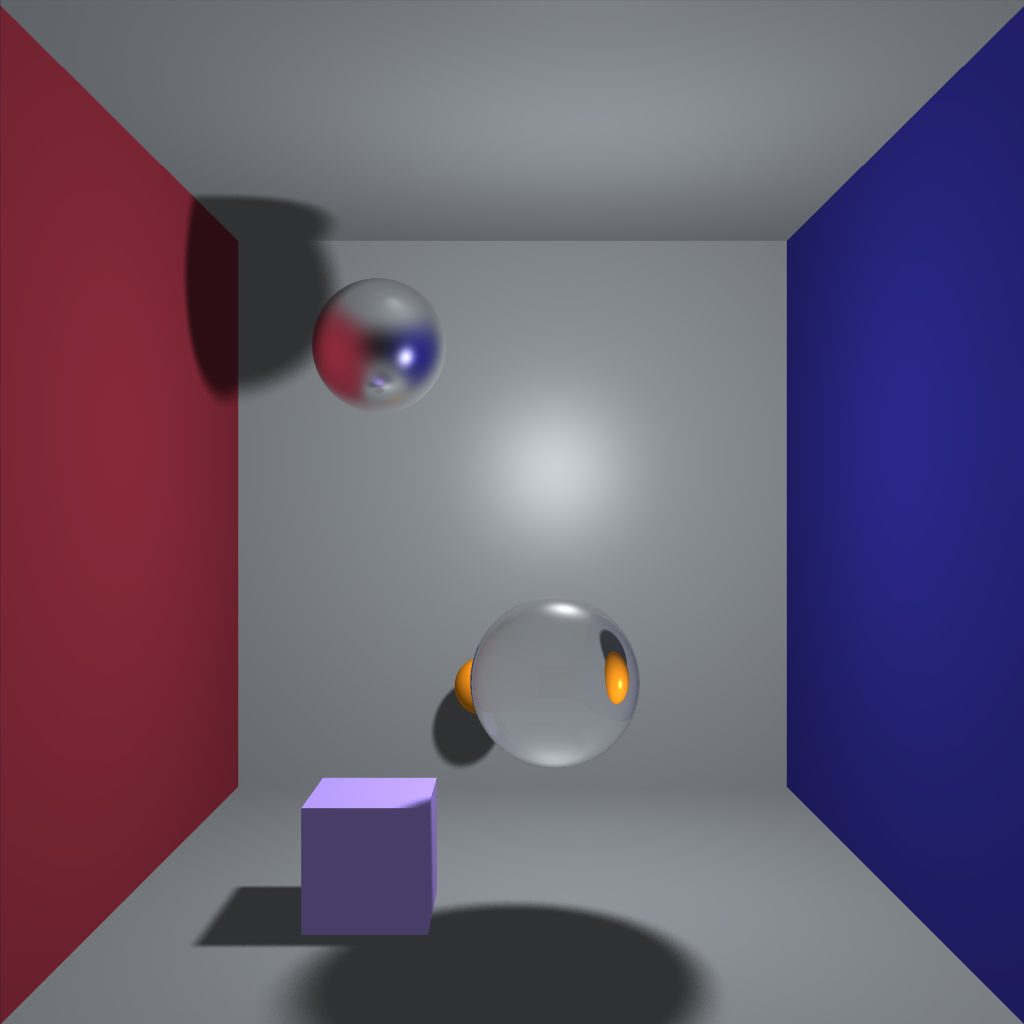
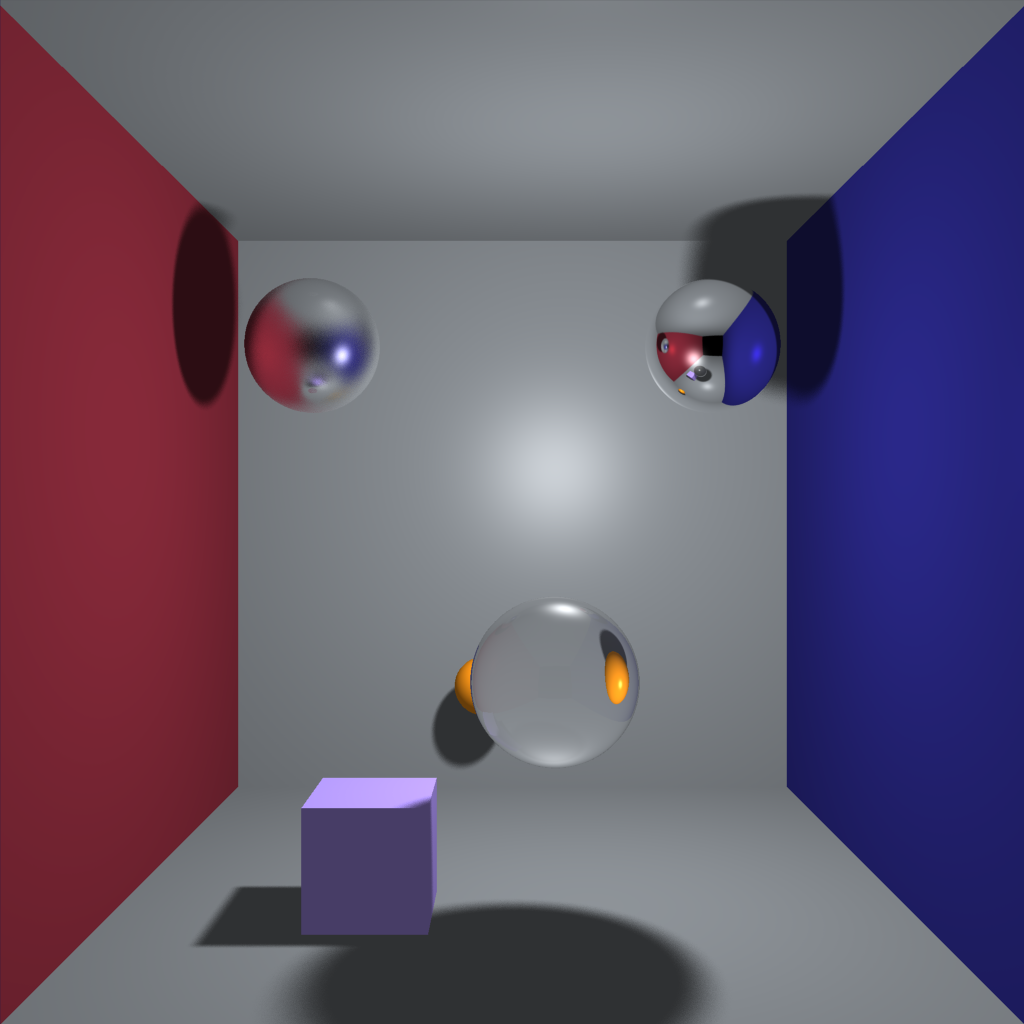
Glossy Refraction.

Changed region(s): [[0.1562, 0.1875, 0.4375, 0.4062], [0.625, 0.1875, 0.8438, 0.4062]]

diff --git a/A4/A4.cpp b/A4/A4.cpp
@@ -19,7 +19,7 @@ static double IMAGEHEIGHT;
 #define REFLECTIONDEBUG 0
 #define ABSORBANCE 0.1
 #define SOFTSHADOW 100					// How many shadow rays.
-#define GLOSSYREFLECTION 20				// How many reflection rays
+#define GLOSSYREFLECTION 50				// How many reflection rays
 #define GLOSSYREFRACTION 50				// How many refraction rays.
 
 #define REFLECTION_REFRACTION_ONLY 0
@@ -116,11 +116,11 @@ void A4_Render(
 	std::chrono::system_clock::time_point start = std::chrono::system_clock::now();
 	
 	for (uint y = 0; y < ny; ++y) {
+		std::cout << "Working on Y: " << y << std::endl;
 		for (uint x = 0; x < nx; ++x) {
 			
 			if (x % MULTIPROCESSINGNUMBER == 0) {
 				dispatch_barrier_sync(concurrent_queue, ^{
-					std::cout << "Working on Y: " << y << std::endl;
 				});
 			}
 			
@@ -349,12 +349,43 @@ glm::dvec3 directLight(const std::list<Light*> & lights, const Intersection & pr
 #endif
         
 		if (reflectance != 1.0) {
-            // refraction
-            Ray t = refractedRay(primary_intersect.incoming_ray, primary_intersect);
-            HitColor refractedColor = rayColor(t, lights, counter+1);	// get refracted ray color.
-            if (refractedColor.hit) {
-                color += (1 - reflectance) * refractedColor.color;
-            }
+
+			if (primary_intersect.material->m_glossy_coefficients.z > 0) {
+				// Glossy refraction
+				glm::dvec3 refracted_color;
+				
+				// Add glossy refraction
+				if (GLOSSYREFRACTION > 0) {
+					Ray t = refractedRay(primary_intersect.incoming_ray, primary_intersect);
+					std::vector<glm::dvec3> purtubed_rays
+						= purturbedRays(
+									glm::dvec3(t.direction),
+									glm::dvec3(-primary_intersect.normal),
+									primary_intersect.material->m_glossy_coefficients.w,
+									GLOSSYREFRACTION);
+					
+					for (auto dir : purtubed_rays) {
+						
+						Ray refracted_ray(point + EPSILON * glm::dvec4(dir, 0), glm::dvec4(dir, 0));
+						HitColor hit_color;
+						hit_color = rayColor(refracted_ray, lights, counter+1);
+						refracted_color += hit_color.color;
+					}
+					
+					refracted_color = refracted_color / double(GLOSSYREFRACTION);
+					color += (1 - reflectance) *
+						primary_intersect.material->m_glossy_coefficients.z * refracted_color;
+				}
+				
+			} else {
+			
+				// regular refraction
+				Ray t = refractedRay(primary_intersect.incoming_ray, primary_intersect);
+				HitColor refractedColor = rayColor(t, lights, counter+1);	// get refracted ray color.
+				if (refractedColor.hit) {
+					color += (1 - reflectance) * refractedColor.color;
+				}
+			}
 			
 		}
         // reflection
@@ -365,13 +396,22 @@ glm::dvec3 directLight(const std::list<Light*> & lights, const Intersection & pr
 #endif
 	}
 	
-	// calculate diffused color.
+
 	
+	glm::dvec3 Ri = glm::normalize(glm::dvec3(primary_intersect.incoming_ray.direction));
+	glm::dvec3 N = glm::normalize(glm::dvec3(primary_intersect.normal));
+	glm::dvec3 Rr = Ri - 2.0 * N * (glm::dot(Ri, N));
+	
+	// calculate diffused color.
 	for (auto light : lights) {
 		
 		int iteration = light->isAreaLight() ? SOFTSHADOW : 1;
 		glm::dvec3 colorSum {0, 0, 0};
 		
+		glm::dvec4 point = primary_intersect.incoming_ray.origin + primary_intersect.incoming_ray.direction * primary_intersect.t;
+		glm::dvec4 light_direction = glm::dvec4(light->position, 1) - point;
+		
+		// Soft Shadow calculation.
 		for (int i = 0; i < iteration; i++) {
 			auto lightPosition = light->isAreaLight() ? glm::vec3(light->randomPoint()) : light->position;
 			
@@ -416,12 +456,7 @@ glm::dvec3 directLight(const std::list<Light*> & lights, const Intersection & pr
 																 light->falloff[2] * length * length);
 				}
 				
-				glm::dvec4 point = primary_intersect.incoming_ray.origin + primary_intersect.incoming_ray.direction * primary_intersect.t;
-				glm::dvec4 light_direction = glm::dvec4(light->position, 1) - point;
-				
-				glm::dvec3 Ri = glm::normalize(glm::dvec3(primary_intersect.incoming_ray.direction));
-				glm::dvec3 N = glm::normalize(glm::dvec3(primary_intersect.normal));
-				glm::dvec3 Rr = Ri - 2.0 * N * (glm::dot(Ri, N));
+
 				
 				if (glm::length(primary_intersect.material->m_ks) > 0) {
 					cosineTheta = std::max(glm::dot(Rr, glm::normalize(glm::dvec3(light_direction))), 0.0);
@@ -429,59 +464,40 @@ glm::dvec3 directLight(const std::list<Light*> & lights, const Intersection & pr
 					
 					colorSum += phongCoeff * primary_intersect.material->m_ks * light->colour;
 				}
-				
-				if (primary_intersect.material->m_glossy_coefficients.x > 0) {
-					__block glm::dvec3 reflected_color;
-					
-					// Add glossy reflection
-					if (GLOSSYREFLECTION > 0) {
-						std::vector<glm::dvec3> purtubed_reflected_rays
-							= purturbedRays(
-								Rr,
-								glm::dvec3(primary_intersect.normal),
-								primary_intersect.material->m_glossy_coefficients.y,
-								GLOSSYREFLECTION);
-						
-//						dispatch_queue_t distributed_ray_queue = dispatch_queue_create("ca.uwaterloo.cs488.raytracer.distributedray", DISPATCH_QUEUE_CONCURRENT);
-//						
-//						dispatch_queue_t serialized_queue = dispatch_queue_create("ca.uwaterloo.cs488.raytracer.distributedray.serializer", 0);
-						
-						for (auto dir : purtubed_reflected_rays) {
-							
-							Ray reflected_ray(point + EPSILON * glm::dvec4(dir, 0), glm::dvec4(dir, 0));
-							
-							HitColor hit_color = rayColor(reflected_ray, lights, counter + 1);
-							reflected_color += hit_color.color;
-						}
-						
-						reflected_color = reflected_color / double(GLOSSYREFLECTION);
-						colorSum +=
-							primary_intersect.material->m_glossy_coefficients.x * reflected_color * glm::dvec3(primary_intersect.material->m_ks);
-					}
-					
-				}
-				
-				if (primary_intersect.material->m_glossy_coefficients.z > 0) {
-					// Add glossy refraction
-					
-				}
-//				
-//				// ----------- for diffused objecto reflect.
-//				// Calculate Reflected ray.
-//				glm::dvec4 Rr_dir = glm::dvec4(glm::normalize(Rr), 0);
-//				Ray reflected(point + EPSILON * Rr_dir, Rr_dir);
-//				HitColor hc = rayColor(reflected, lights, counter+1);
-//				
-//				// If the material is not a glass.
-//				if (hc.hit) {
-//					// for general object, the reflection is controlled by reflection coeff.
-//					color += REFLECTION_COEFF * primary_intersect.material->m_ks * glm::vec3(hc.color);
-//				}
 			}
 		}
-		
 		light->isAreaLight() ? color += colorSum / SOFTSHADOW : color += colorSum;
 	}
+	
+#pragma mark - glossy reflection
+
+	if (primary_intersect.material->m_glossy_coefficients.x > 0) {
+		glm::dvec3 reflected_color;
+		
+		// Add glossy reflection
+		if (GLOSSYREFLECTION > 0) {
+			std::vector<glm::dvec3> purtubed_reflected_rays
+				= purturbedRays(
+					Rr,
+					glm::dvec3(primary_intersect.normal),
+					primary_intersect.material->m_glossy_coefficients.y,
+					GLOSSYREFLECTION);
+			
+			for (auto dir : purtubed_reflected_rays) {
+				
+				Ray reflected_ray(point + EPSILON * glm::dvec4(dir, 0), glm::dvec4(dir, 0));
+				HitColor hit_color;
+				hit_color = rayColor(reflected_ray, lights, counter+1);
+				reflected_color += hit_color.color;
+			}
+			
+			reflected_color = reflected_color / double(GLOSSYREFLECTION);
+			color +=
+				primary_intersect.material->m_glossy_coefficients.x * reflected_color * glm::dvec3(primary_intersect.material->m_ks);
+		}
+		
+	}
+	
 	return color;
 }
 
